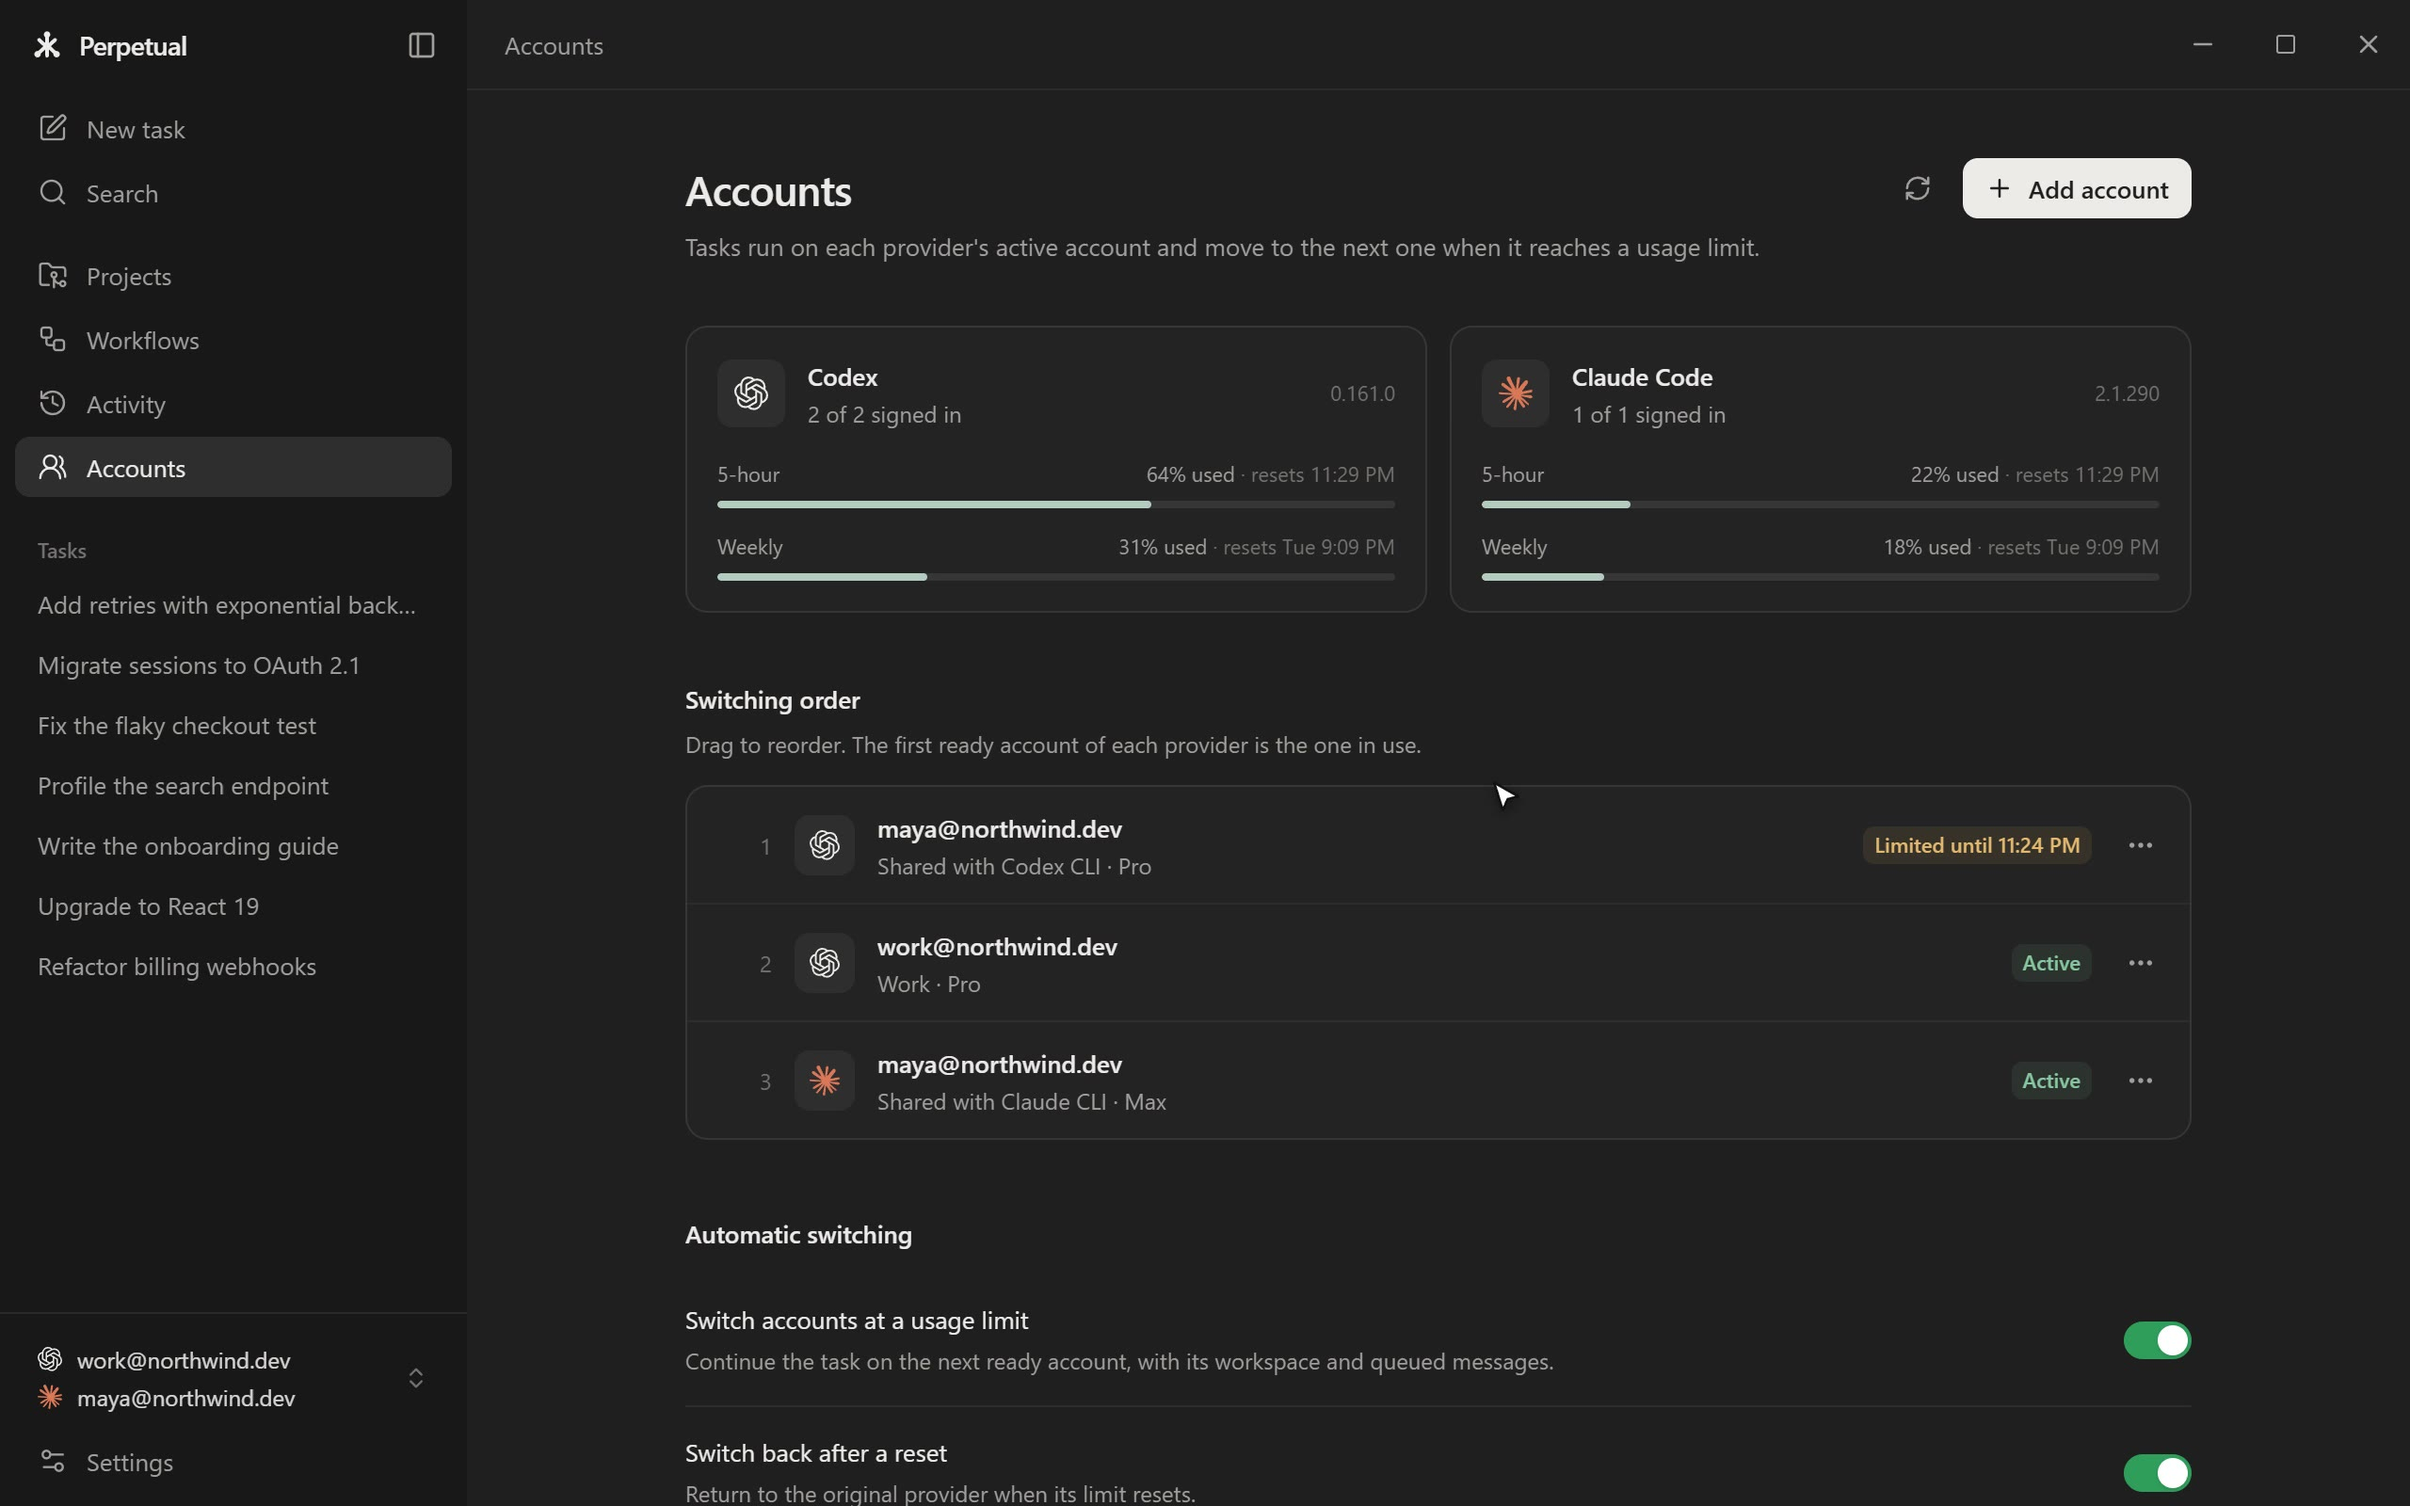
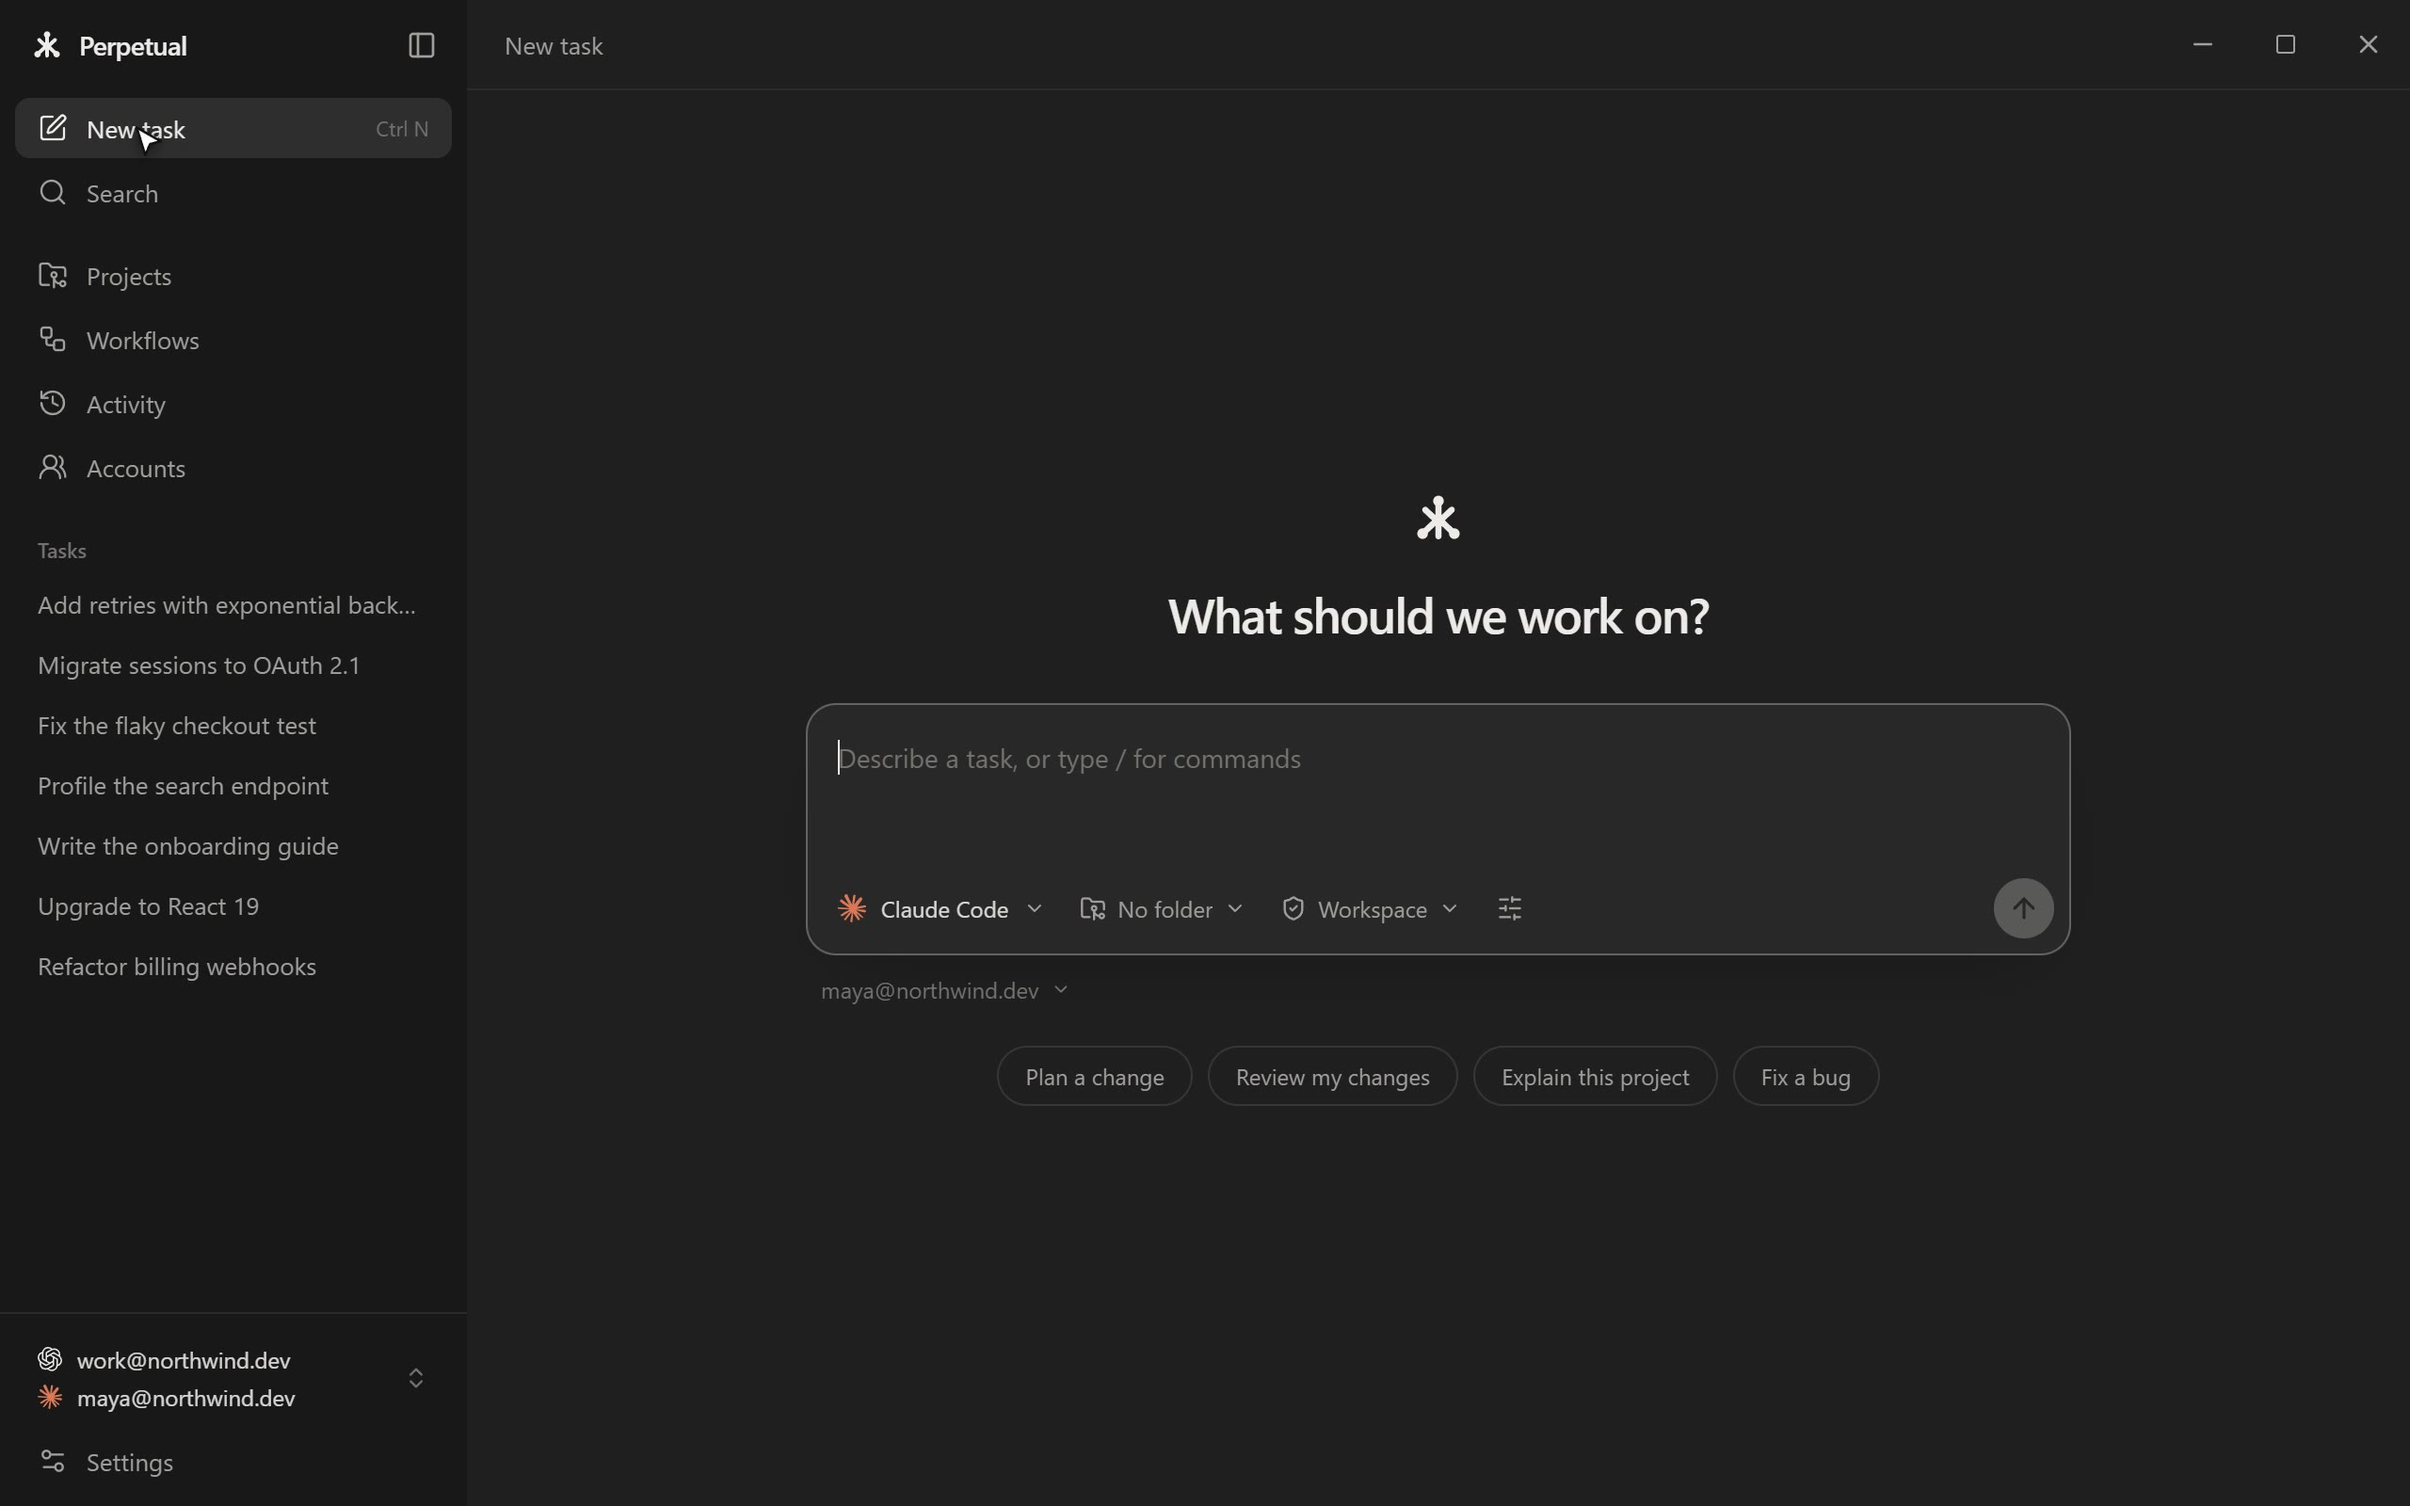
feat(landing): start clips past their lead-in, with matching posters

diff --git a/landing/src/components/Video.tsx b/landing/src/components/Video.tsx
@@ -13,10 +13,12 @@ export const Video = forwardRef<
     loop?: boolean;
     /** Source file suffix, e.g. "-scrub" for the scroll-scrubbed variant. */
     variant?: string;
+    /** Seconds to skip at the start, on first play and on every loop. */
+    start?: number;
     className?: string;
     label: string;
   }
->(function Video({ name, autoPlay = true, loop = true, variant = '', className, label }, ref) {
+>(function Video({ name, autoPlay = true, loop = true, variant = '', start = 0, className, label }, ref) {
   const video = useRef<HTMLVideoElement>(null);
   const [near, setNear] = useState(false);
   useImperativeHandle(ref, () => video.current!);
@@ -35,13 +37,26 @@ export const Video = forwardRef<
       },
       { threshold: 0.35 },
     );
+    // Native looping always restarts at zero, so loop by hand past `start`.
+    const skip = () => {
+      if (start && el.currentTime < start) el.currentTime = start;
+    };
+    const restart = () => {
+      if (!start || !loop) return;
+      el.currentTime = start;
+      void el.play().catch(() => undefined);
+    };
+    el.addEventListener('loadedmetadata', skip);
+    el.addEventListener('ended', restart);
     load.observe(el);
     play.observe(el);
     return () => {
       load.disconnect();
       play.disconnect();
+      el.removeEventListener('loadedmetadata', skip);
+      el.removeEventListener('ended', restart);
     };
-  }, [autoPlay]);
+  }, [autoPlay, loop, start]);
 
   return (
     <video
@@ -51,7 +66,7 @@ export const Video = forwardRef<
       poster={`/media/${name}.jpg`}
       muted
       playsInline
-      loop={loop}
+      loop={loop && !start}
       preload={near ? 'auto' : 'none'}
     >
       {near && variant === '' && <source src={`/media/${name}.webm`} type="video/webm" />}
